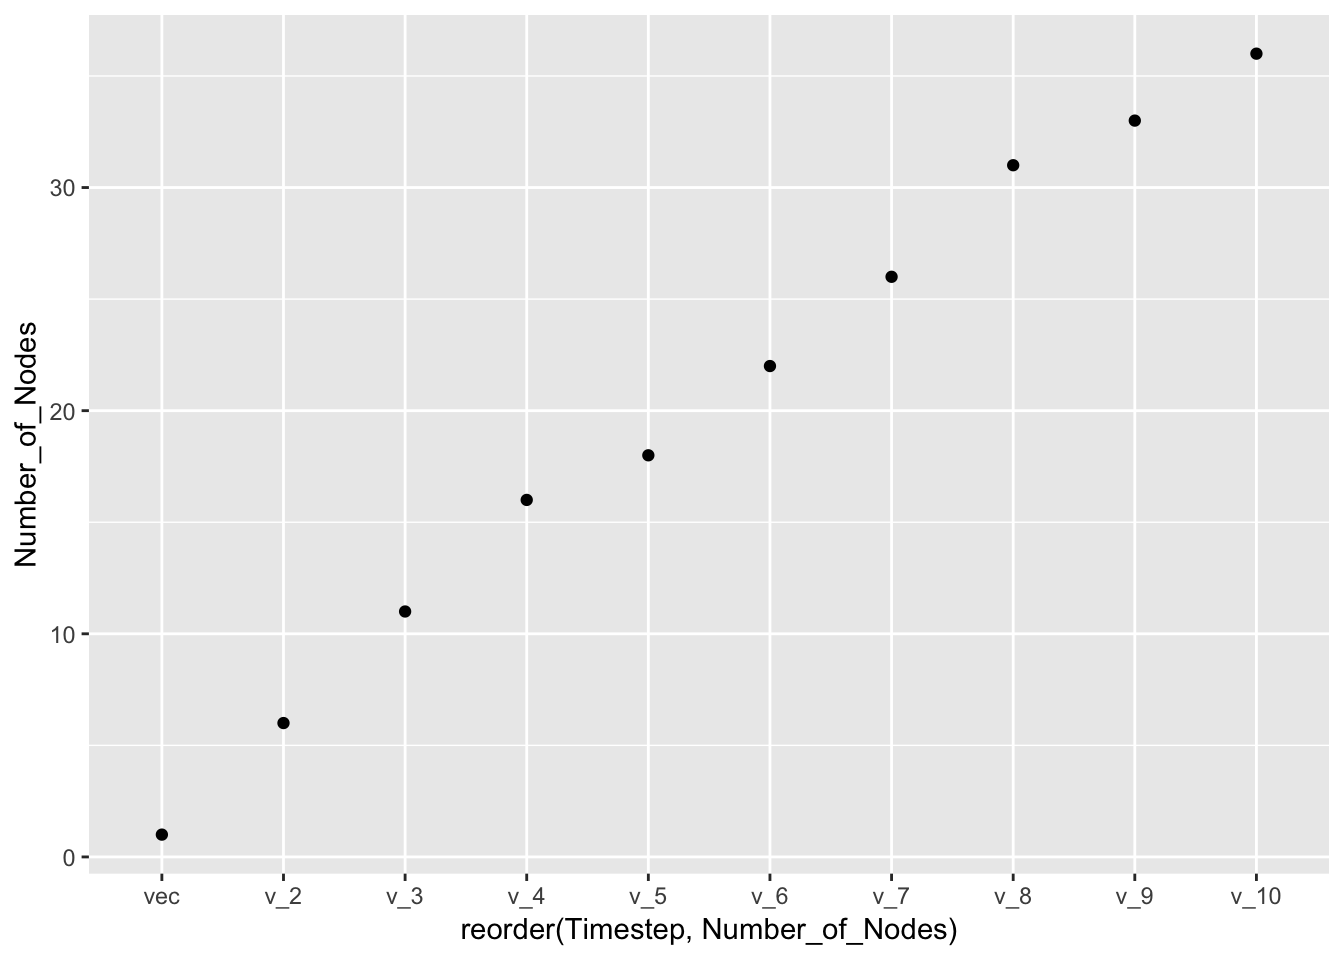
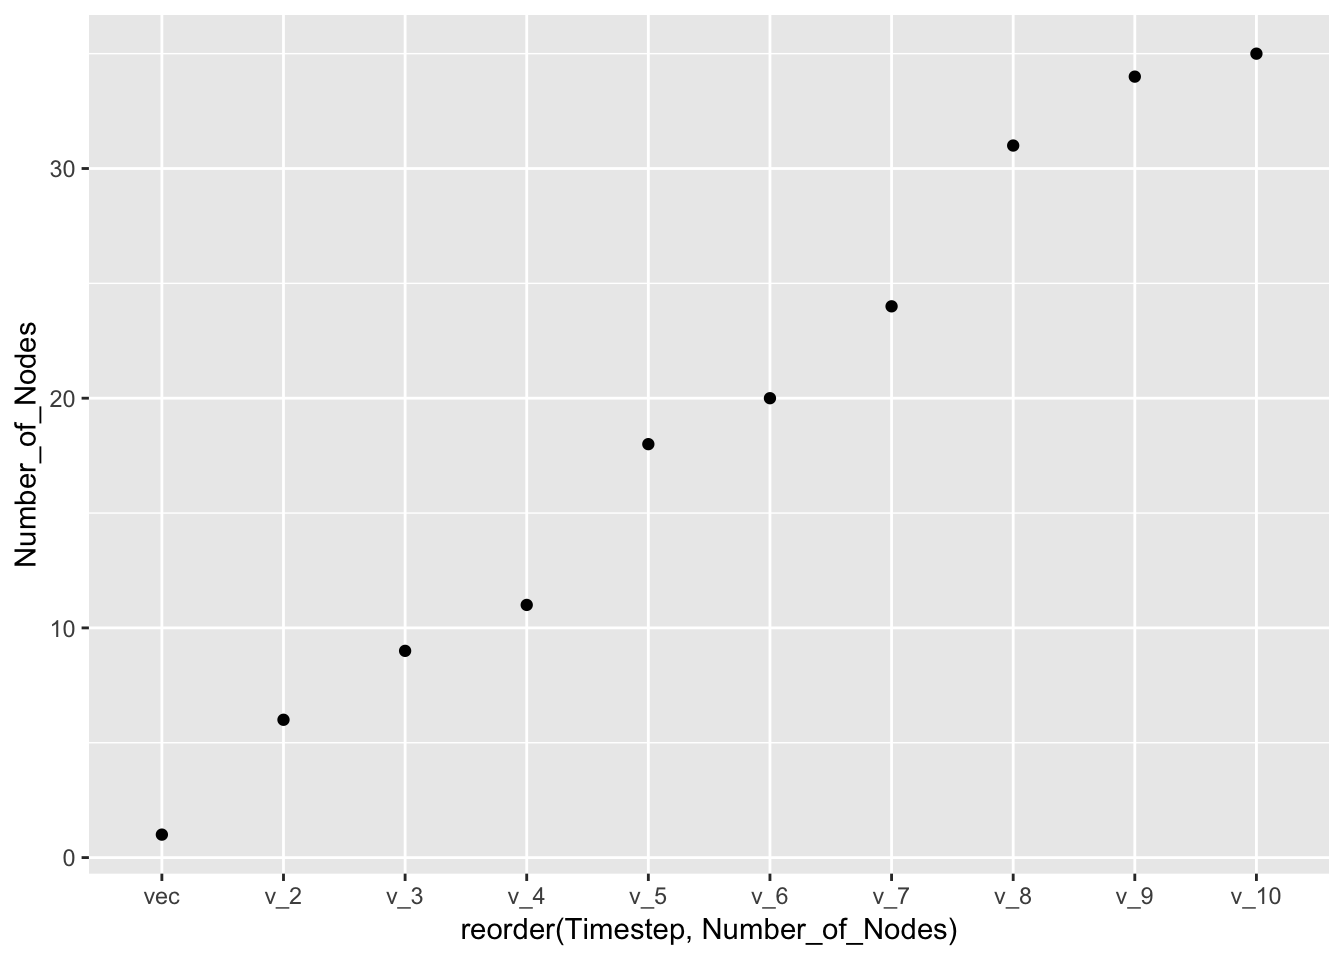
updates

diff --git a/EpidemicNetworks.html b/EpidemicNetworks.html
@@ -346,8 +346,16 @@ div.tocify {
 <div id="matricies-in-r-epidemic-spread-over-time" class="section level2">
 <h2>Matricies in R: Epidemic spread over time</h2>
 <p>First, load the libraries that we will use in this module.</p>
-<div class="sourceCode"><pre class="sourceCode r"><code class="sourceCode r"><span class="kw">library</span>(igraph)
-<span class="kw">library</span>(tidyverse)</code></pre></div>
+<div class="sourceCode"><pre class="sourceCode r"><code class="sourceCode r"><span class="kw">library</span>(igraph)</code></pre></div>
+<pre><code>## 
+## Attaching package: &#39;igraph&#39;</code></pre>
+<pre><code>## The following objects are masked from &#39;package:stats&#39;:
+## 
+##     decompose, spectrum</code></pre>
+<pre><code>## The following object is masked from &#39;package:base&#39;:
+## 
+##     union</code></pre>
+<div class="sourceCode"><pre class="sourceCode r"><code class="sourceCode r"><span class="kw">library</span>(tidyverse)</code></pre></div>
 <pre><code>## ── Attaching packages ────────────────────────────────── tidyverse 1.2.1 ──</code></pre>
 <pre><code>## ✔ ggplot2 3.0.0     ✔ purrr   0.2.4
 ## ✔ tibble  1.4.2     ✔ dplyr   0.7.4
@@ -464,16 +472,16 @@ Amat &lt;-<span class="st"> </span>Amat*<span class="dv">1</span> ## make your l
 <span class="kw">diag</span>(Amat) &lt;-<span class="st"> </span><span class="dv">1</span> <span class="co"># set the diagonals to 1 so that if a node is infected, it stays infected</span>
 Amat <span class="co"># our randomly generated matrix</span></code></pre></div>
 <pre><code>##       [,1] [,2] [,3] [,4] [,5] [,6] [,7] [,8] [,9] [,10]
-##  [1,]    1    0    1    1    0    0    1    0    1     0
-##  [2,]    0    1    0    1    0    0    0    0    0     0
-##  [3,]    1    0    1    1    0    0    0    0    1     1
-##  [4,]    0    0    1    1    0    0    0    1    0     0
-##  [5,]    0    1    1    1    1    0    0    0    0     1
-##  [6,]    0    0    0    0    0    1    0    0    0     1
-##  [7,]    0    0    0    0    0    0    1    0    0     0
-##  [8,]    0    0    0    0    0    0    1    1    0     0
-##  [9,]    0    1    1    0    0    1    1    1    1     0
-## [10,]    0    0    0    1    0    0    0    0    1     1</code></pre>
+##  [1,]    1    0    0    0    1    0    0    0    0     1
+##  [2,]    0    1    0    1    0    1    0    1    1     0
+##  [3,]    0    1    1    0    0    0    0    1    1     1
+##  [4,]    1    1    0    1    0    0    0    0    1     0
+##  [5,]    1    0    0    0    1    0    0    0    1     0
+##  [6,]    1    0    1    0    1    1    0    0    1     0
+##  [7,]    1    0    0    0    0    1    1    1    0     1
+##  [8,]    0    0    0    1    1    0    0    1    0     0
+##  [9,]    0    1    0    0    0    1    0    0    1     0
+## [10,]    1    0    0    0    0    0    0    0    0     1</code></pre>
 <p> </p>
 <p>Plot to see you network</p>
 <div class="sourceCode"><pre class="sourceCode r"><code class="sourceCode r">Mat3 &lt;-<span class="st"> </span><span class="kw">graph_from_adjacency_matrix</span>(Amat)
@@ -492,7 +500,7 @@ df</code></pre></div>
 ##  [2,]     0     1
 ##  [3,]     0     1
 ##  [4,]     0     1
-##  [5,]     0     0
+##  [5,]     0     1
 ##  [6,]     1     1
 ##  [7,]     1     1
 ##  [8,]     1     1
@@ -506,6 +514,10 @@ df</code></pre></div>
 <p>This dataset is from Andersen et al 2018 and xxx et al 2017   Some background….</p>
 <p>   </p>
 <p>First, let’s read in a simplified node and link file. The node file contains the 27 sellers that were survyed in this dataset and the links file contains the 99 villages to which they sold sweetpotato planting material in 2014.</p>
+<p> </p>
+<p><a href="otudata.csv">nodelist.csv</a><br />
+<a href="otu_taxonomy.csv">edgelist.csv</a></p>
+<p> </p>
 <div class="sourceCode"><pre class="sourceCode r"><code class="sourceCode r">nodes &lt;-<span class="st"> </span><span class="kw">read.csv</span>(<span class="st">&quot;nodelist.csv&quot;</span>, <span class="dt">header=</span><span class="ot">TRUE</span>) <span class="co">#load in node attribute file (see node attributes include color)</span>
 links &lt;-<span class="st"> </span><span class="kw">read.csv</span>(<span class="st">&quot;edgelist.csv&quot;</span>, <span class="dt">header =</span> <span class="ot">TRUE</span>) <span class="co">#load in edge attribute file </span>
 links$weight &lt;-<span class="st"> </span><span class="kw">as.numeric</span>(links$weight) ### weight is the average volume sold
@@ -550,9 +562,9 @@ fix.layout &lt;-<span class="st"> </span><span class="kw">layout_with_dh</span>(
 FullNet2 &lt;-<span class="st"> </span><span class="kw">as.matrix</span>(FullNet)
 FullNet3 &lt;-<span class="st"> </span><span class="kw">graph_from_adjacency_matrix</span>(FullNet2)
 FullNet3</code></pre></div>
-<pre><code>## IGRAPH 2d709fe DN-- 126 283 -- 
+<pre><code>## IGRAPH 4d39526 DN-- 126 283 -- 
 ## + attr: name (v/c)
-## + edges from 2d709fe (vertex names):
+## + edges from 4d39526 (vertex names):
 ##  [1] S_1 -&gt;V_30 S_1 -&gt;V_48 S_1 -&gt;V_58 S_1 -&gt;V_95 S_1 -&gt;V_98 S_10-&gt;V_30
 ##  [7] S_10-&gt;V_35 S_10-&gt;V_53 S_10-&gt;V_58 S_10-&gt;V_86 S_10-&gt;V_89 S_10-&gt;V_97
 ## [13] S_10-&gt;V_98 S_11-&gt;V_30 S_11-&gt;V_35 S_11-&gt;V_53 S_11-&gt;V_58 S_11-&gt;V_86
@@ -827,16 +839,16 @@ A</code></pre></div>
 ## # Groups:   Sim [?]
 ##      Sim  Step Number_of_Nodes
 ##    &lt;dbl&gt; &lt;dbl&gt;           &lt;dbl&gt;
-##  1    1.    1.              8.
-##  2    1.    2.              8.
-##  3    1.    3.             15.
-##  4    1.    4.             19.
-##  5    1.    5.             23.
+##  1    1.    1.              5.
+##  2    1.    2.             11.
+##  3    1.    3.             12.
+##  4    1.    4.             21.
+##  5    1.    5.             24.
 ##  6    1.    6.             26.
 ##  7    1.    7.             28.
-##  8    1.    8.             34.
-##  9    1.    9.             35.
-## 10    1.   10.             37.
+##  8    1.    8.             29.
+##  9    1.    9.             30.
+## 10    1.   10.             30.
 ## # ... with 1,990 more rows</code></pre>
 <p>  Plot!</p>
 <div class="sourceCode"><pre class="sourceCode r"><code class="sourceCode r"><span class="kw">library</span>(ggplot2) ## I choose to use ggplot here 

diff --git a/Microbiome_ws_ICPP_2018.html b/Microbiome_ws_ICPP_2018.html
@@ -361,7 +361,11 @@ library(igraph)
 library(Hmisc)  
 # install.packages(&quot;Matrix&quot;) # uncomment this line in order to install this package
 library(Matrix)   </code></pre>
-<p>Loading the data, we are going to load two tables [comma separated value or <code>csv</code> format], using the command <code>read.csv()</code>, we either could call the file following the PATH or use the command <code>file.choose()</code>, select the files <code>otudata.csv</code> and <code>otu_taxonomy.csv</code>.</p>
+<p>Loading the data, we are going to load two tables [comma separated value or <code>csv</code> format], using the command <code>read.csv()</code>, we either could call the file following the PATH or use the command <code>file.choose()</code>, select the files <code>otudata.csv</code> and <code>otu_taxonomy.csv</code>. If you have not already, you can download the files here:</p>
+<p> </p>
+<p><a href="otudata.csv" class="uri">otudata.csv</a><br />
+<a href="otu_taxonomy.csv" class="uri">otu_taxonomy.csv</a></p>
+<p> </p>
 <pre><code># Load the data with the OTU table: otudata.csv
 otu.table&lt;-read.csv(file.choose(), header=T, row.names = 1)
 
